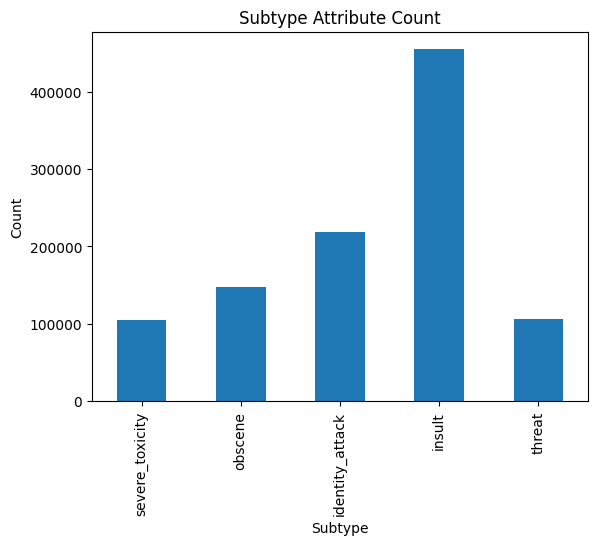
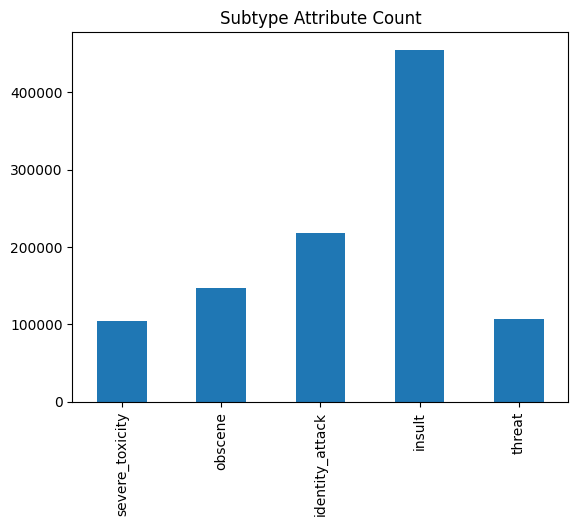
Remove axis labels from charts

diff --git a/src/data/target_chart.py b/src/data/target_chart.py
@@ -6,6 +6,7 @@ df = pd.read_csv('../../data/external/train.csv')
 # Removes all columns except target
 target = df[['target']]
 
+print(target.count())
 # Removes all values less than .5 but greater than 0
 target = target[(target['target'] == 0) | (target['target'] >= 0.5)]
 
@@ -15,8 +16,9 @@ target[target >= .5] = 1
 # Creases a new dataframe from the counts of each value either 0 or 1
 target = target['target'].value_counts()
 
-target.plot(kind='bar', title='Target Imbalance',
-                xlabel='Target Value', ylabel='Count')
+print(target)
+
+target.plot(kind='bar', title='Target Imbalance')
 
 # Changes from scientific notation to normal
 plt.ticklabel_format(useOffset=False, style='plain', axis='y')

diff --git a/src/data/subtype_charts.py b/src/data/subtype_charts.py
@@ -11,7 +11,6 @@ subtype = df[subtypes]
 # Creates a new dataframe from the counts of each column
 subtype = subtype[subtype > 0].count()
     
-subtype.plot(kind='bar', title='Subtype Attribute Count', 
-                xlabel='Subtype', ylabel='Count')
+subtype.plot(kind='bar', title='Subtype Attribute Count')
 
 plt.savefig('../../reports/figures/subtype.png', bbox_inches = "tight")
